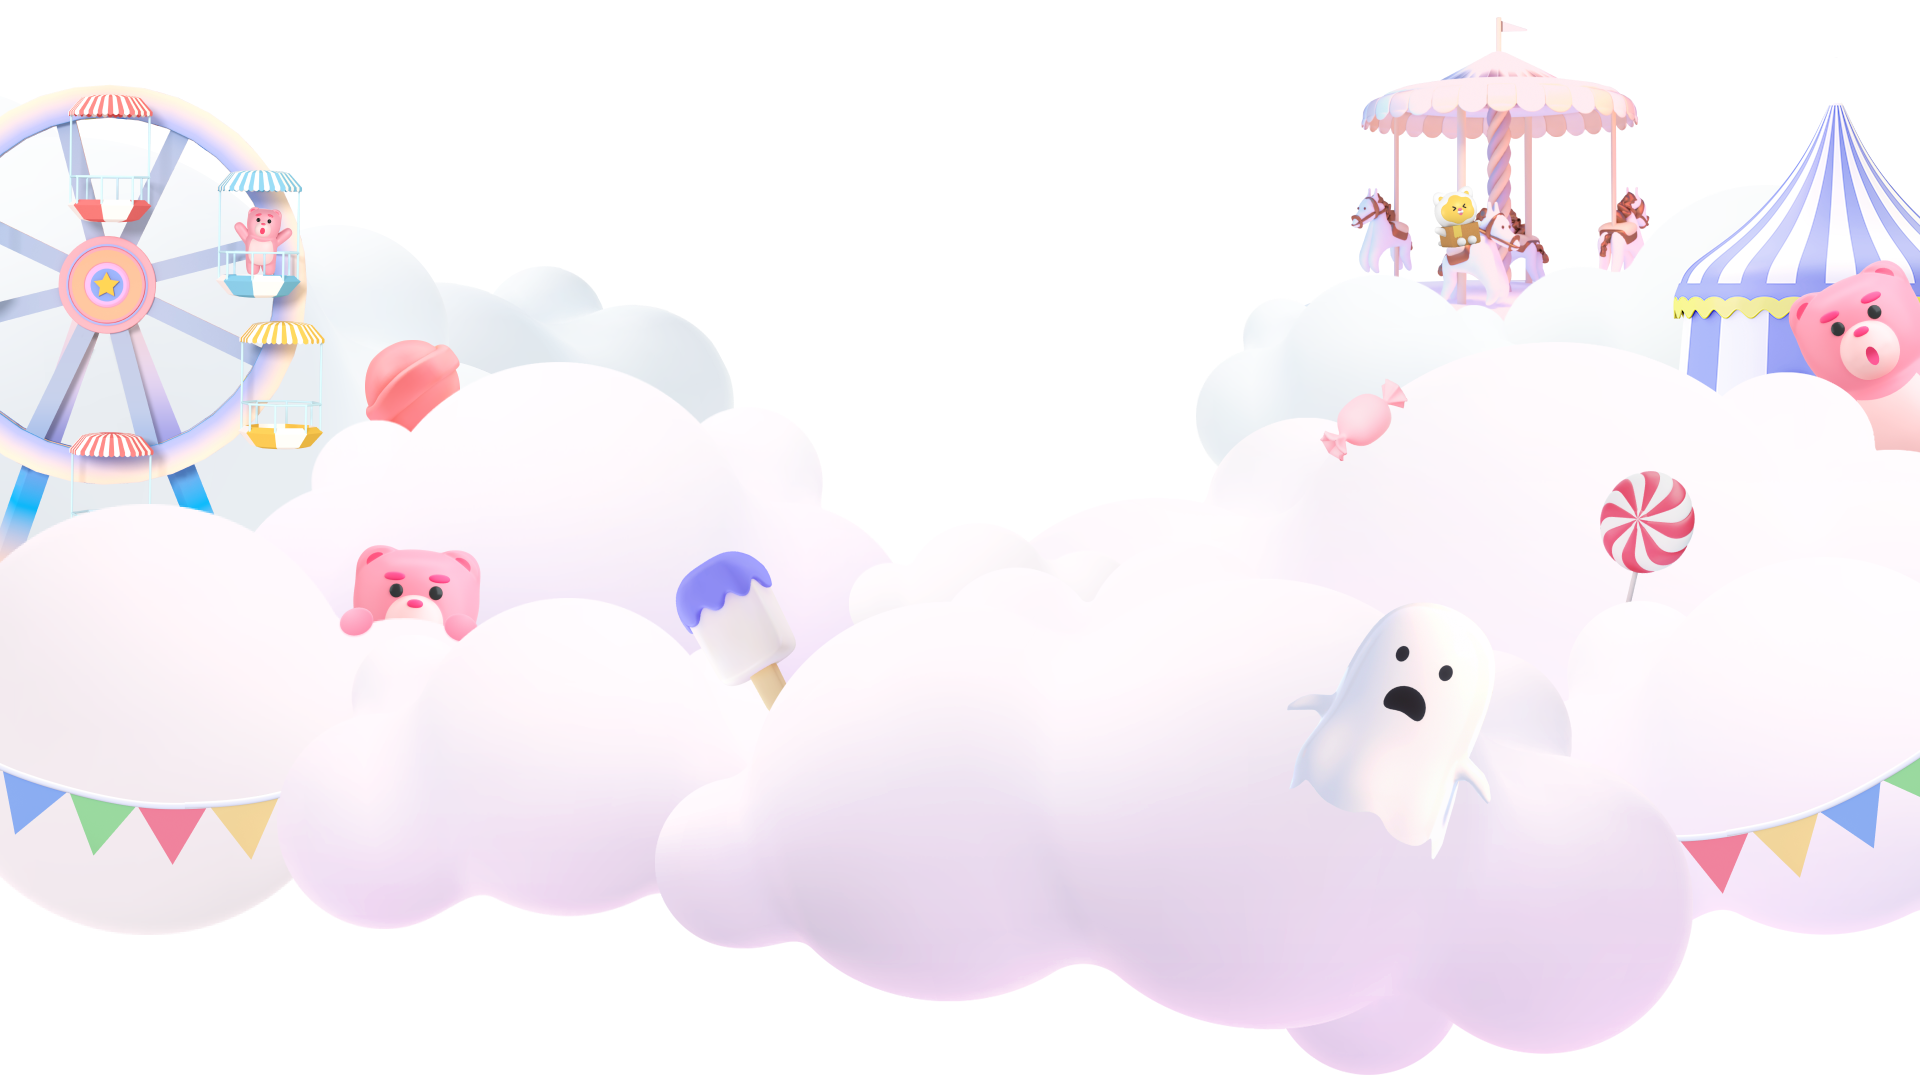
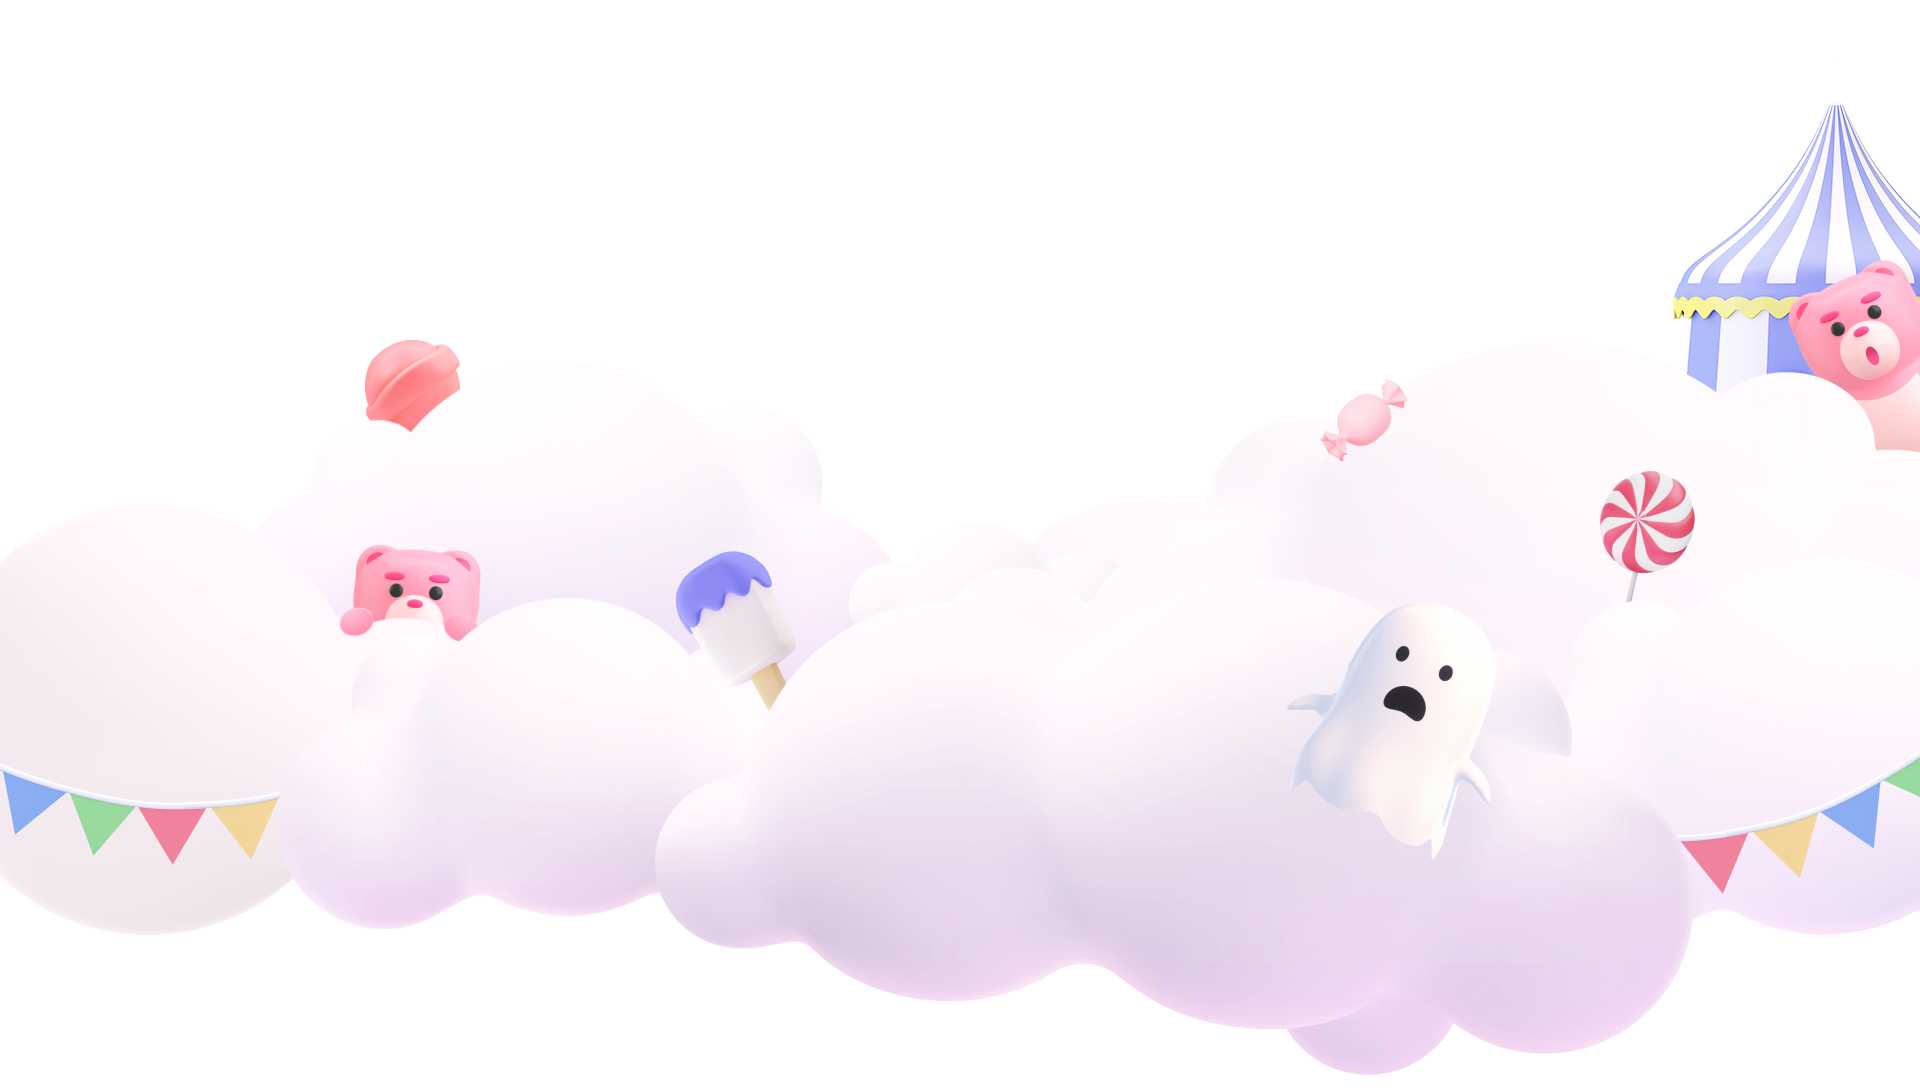
수정사항 적용

diff --git a/components/AccordionComponent.vue b/components/AccordionComponent.vue
@@ -1,18 +1,24 @@
 <template>
   <ul class="accordion-list">
     <li class="accordion-item" v-for="(item, index) in list" :key="index">
-      <button v-if="$mq === 'pc'"
-          :class="{ title: true, active: onContent.some((el) => index === el) }"
-          @click="openCon(index);
-        sendGaEvent('bf_faq'+ parseInt(item.faqIndex), 'BF');"
+      <button
+        v-if="$mq === 'pc'"
+        :class="{ title: true, active: onContent.some((el) => index === el) }"
+        @click="
+          openCon(index);
+          sendGaEvent('bf_faq' + parseInt(item.faqIndex), 'BF');
+        "
       >
         <slot name="title" :item="item"></slot>
       </button>
 
-      <button v-if="$mq === 'mobile'"
-              :class="{ title: true, active: onContent.some((el) => index === el) }"
-              @click="openCon(index);
-        sendGaEvent('M_bf_faq'+ parseInt(item.faqIndex), 'BF');"
+      <button
+        v-if="$mq === 'mobile'"
+        :class="{ title: true, active: onContent.some((el) => index === el) }"
+        @click="
+          openCon(index);
+          sendGaEvent('M_bf_faq' + parseInt(item.faqIndex), 'BF');
+        "
       >
         <slot name="title" :item="item"></slot>
       </button>
@@ -80,6 +86,7 @@ export default {
       color: $black;
       background: $white;
       font-weight: 700;
+      white-space: nowrap;
       &::before {
         content: "";
         display: inline-block;

diff --git a/components/Header.vue b/components/Header.vue
@@ -56,13 +56,9 @@
             <a href="https://bellygom.com/" target="_blank"></a>
           </li>
           <li class="linked">
-            <button type="button" class="btn-link" @mouseover="isShow = true" />
+            <button type="button" class="btn-link" @click="openLink" />
             <transition name="fade">
-              <ul
-                class="link-list"
-                v-if="this.isShow"
-                @mouseleave="isShow = false"
-              >
+              <ul class="link-list" v-if="this.isShow">
                 <li v-for="(item, index) in linkList" :key="index">
                   <a :href="item.url" target="_blank">{{ item.name }}</a>
                 </li>
@@ -257,8 +253,17 @@ export default {
     return { lang: browserLang };
   },
   methods: {
-    openLang(e) {
+    openLink() {
+      this.isShow = !this.isShow;
+      if (this.showLang) {
+        this.showLang = false;
+      }
+    },
+    openLang() {
       this.showLang = !this.showLang;
+      if (this.isShow) {
+        this.isShow = false;
+      }
     },
     faqModal() {
       this.showModal = true;

diff --git a/pages/m/index.vue b/pages/m/index.vue
@@ -4,6 +4,11 @@
       <client-only>
         <full-page ref="fullpage" :options="options" id="fullpage">
           <section class="section">
+            <img
+              src="/power_saving.png"
+              alt=""
+              style="object-fit: cover; width: 100%; height: 100%"
+            />
             <video
               ref="mainBelly"
               id="mainBelly"
@@ -11,6 +16,7 @@
               muted
               data-autoplay
               playsinline
+              preload="auto"
             >
               <source
                 src="@/assets/media/m_belly.mp4"
@@ -582,7 +588,7 @@ export default {
           this.$refs.fullpage.api.setAllowScrolling(true);
           console.log("afterLoad");
           if (destination.index === 0) {
-            this.charTop = "0px";
+            this.charTop = "-50%";
             this.cloudMoved = false;
             document.querySelector(".top-btn").style.display = "none";
           } else {

diff --git a/pages/index.vue b/pages/index.vue
@@ -901,8 +901,8 @@ export default {
   -webkit-transform: translateY(-69%);
 }
 .cloud-wrapper.moved > img {
-  transform: translateY(-80%);
-  -webkit-transform: translateY(-80%);
+  transform: translateY(-100%);
+  -webkit-transform: translateY(-100%);
 }
 .section-2 {
   z-index: 1;

diff --git a/nuxt.config.js b/nuxt.config.js
@@ -22,7 +22,7 @@ export default {
       },
       {
         property: "og:description",
-        content: "서프라이즈! 벨리곰 NFT세계로",
+        content: "서프라이즈! 너도 가져봐 벨리곰NFT!",
         vmid: "og:description",
       },
       {

diff --git a/components/Footer.vue b/components/Footer.vue
@@ -98,6 +98,7 @@ footer {
           box-sizing: border-box;
           padding-right: 15px;
           margin-right: 15px;
+          white-space: nowrap;
           a {
             text-decoration: underline;
             text-underline-position: under;
